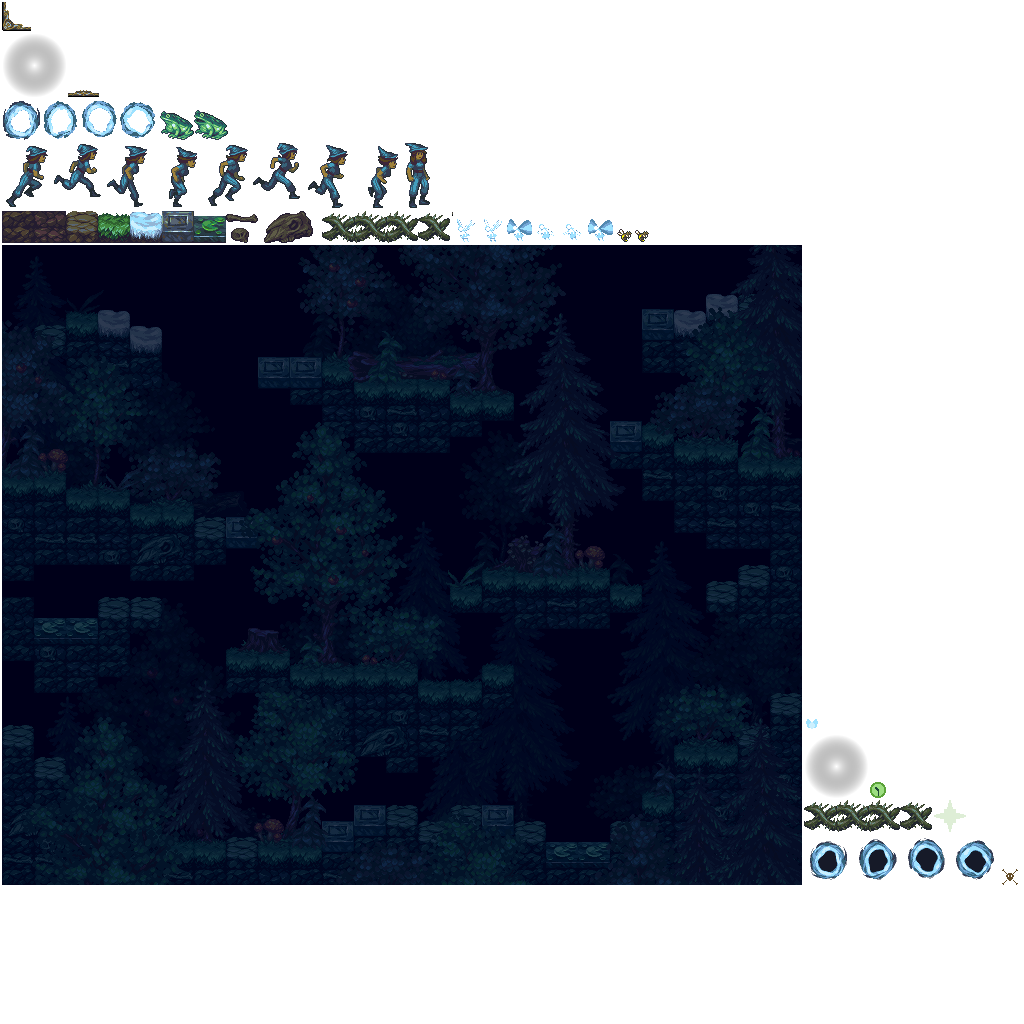
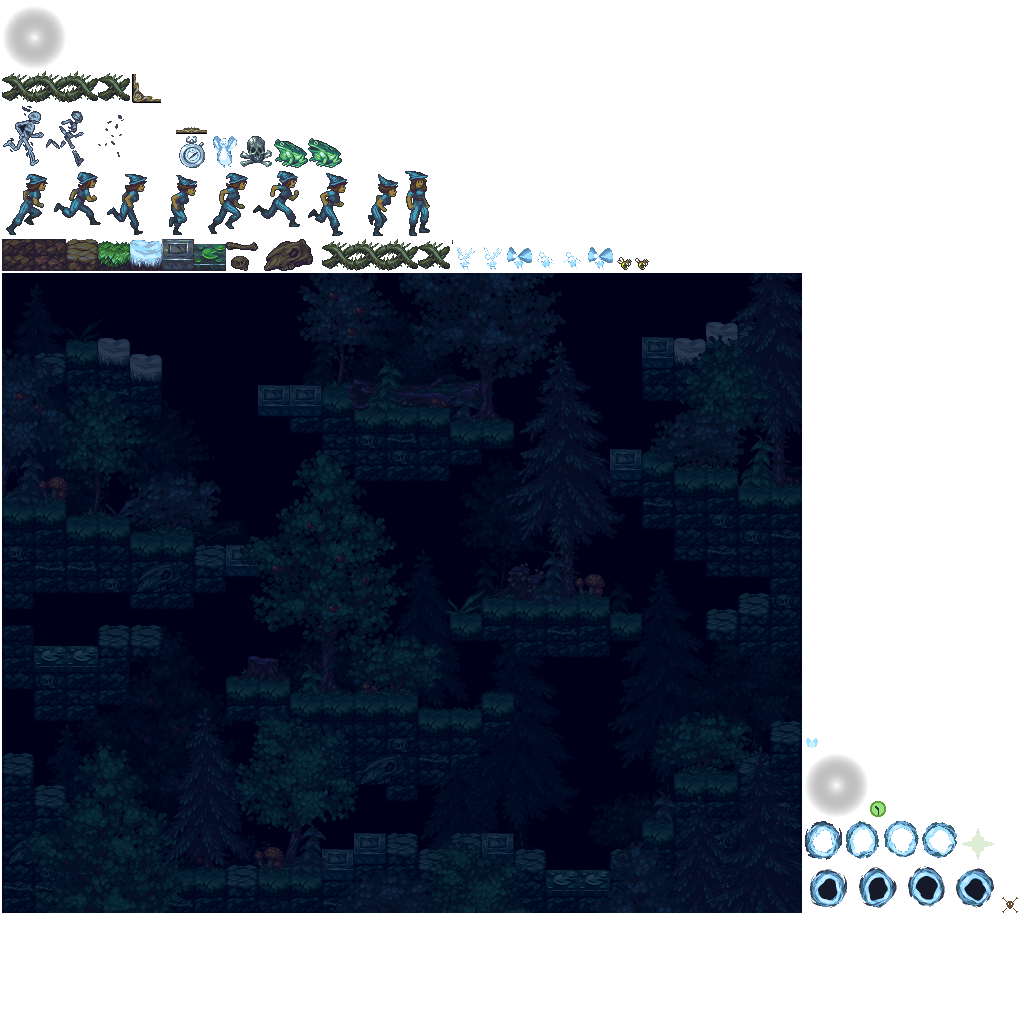
final version maybe

diff --git a/core/src/echo/entity/Player.java b/core/src/echo/entity/Player.java
@@ -59,6 +59,11 @@ public class Player extends Entity{
 		TextureRegion sheetRun = Main.atlas.findRegion("player/run");
 		run = sheetRun.split(sheetRun.getRegionWidth()/8, sheetRun.getRegionHeight())[0];
 	}
+	static TextureRegion[] death;
+	static{
+		TextureRegion sheetDeath= Main.atlas.findRegion("player/death");
+		death = sheetDeath.split(sheetDeath.getRegionWidth()/4, sheetDeath.getRegionHeight())[0];
+	}
 
 
 	static TextureRegion idle = Main.atlas.findRegion("player/idle");
@@ -96,6 +101,7 @@ public class Player extends Entity{
 	int id=0;
 	int fn;
 	CollisionHandler finalCollision;
+	private static double deathAnimationSpeed=8;
 	public Player(int x, int y) {
 		startX=x*Tile.tileWidth; startY=y*Tile.tileHeight;
 		reset();
@@ -360,12 +366,20 @@ public class Player extends Entity{
 			else toDraw = run[6];	
 		}
 		else toDraw=run[(int) frameTicker];
+		
+		if(deathStart>=0){
+			int deathFrame= (int) ((Main.ticks-deathStart)*deathAnimationSpeed);
+			deathFrame=Math.min(3, deathFrame);
+			toDraw=death[deathFrame];
+		}
+		
 		toDraw.flip(toDraw.isFlipX()==(facingSide==1), false);
 		Draw.drawCenteredRotatedScaled(batch, toDraw, (int)(getX()-extraWidth+run[0].getRegionWidth()/2), (int)(getY()-extraHeight+run[0].getRegionHeight()/2), getScaleX(), getScaleY(), getRotation());
 	}
 
-
+	double deathStart=-1;
 	public void die() {
+//		deathStart=Main.ticks;
 		if(active&&!replay) GameScreen.get().currentMap.levelFailed();
 		deathSound.play(getSoundMultiplier());
 		endLife();
@@ -440,6 +454,7 @@ public class Player extends Entity{
 
 	@Override
 	public void reset() {
+		deathStart=-1;
 		fn=0;
 		stepper=0;
 		dx=0;dy=0;

diff --git a/core/src/echo/screen/gameScreen/ScoreKeeper.java b/core/src/echo/screen/gameScreen/ScoreKeeper.java
@@ -16,12 +16,21 @@ public class ScoreKeeper extends Group{
 	public int currentHelp;
 	public boolean active;
 
-	public static final int w=110;
-	public static final int h=90;
+	public static final int w=120;
+	public static final int h=120;
 	
-	public static TextureRegion time = Main.atlas.findRegion("icon/time");
-	public static TextureRegion death = Main.atlas.findRegion("icon/deaths");
-	public static TextureRegion help = Main.atlas.findRegion("icon/help");
+	public static TextureRegion time;
+	public static TextureRegion death;
+	public static TextureRegion help;
+	static{
+		
+		TextureRegion icons = Main.atlas.findRegion("icon/icons");
+		TextureRegion[] split = icons.split(icons.getRegionWidth()/3, icons.getRegionHeight())[0];
+		time=split[0];
+		help=split[1];
+		death=split[2];
+		
+	}
 	public ScoreKeeper() {
 		setSize(w, h);
 		setPosition(Gdx.graphics.getWidth()-getWidth(), Gdx.graphics.getHeight()-getHeight());
@@ -68,8 +77,8 @@ public class ScoreKeeper extends Group{
 		ButtonBorder.drawBorder(batch, getX(), getY(), getWidth(), getHeight(), false);
 		float xOffset=15;
 		float yOffset=10;
-		float yTextOffset=yOffset+14;
-		float xTextOffset=xOffset+25;
+		float yTextOffset=yOffset+20;
+		float xTextOffset=xOffset+38;
 		float yGap=(getHeight()-yOffset*2)/3;
 		
 		Draw.draw(batch, time, getX()+xOffset, getY()+yOffset+yGap*2);

diff --git a/core/src/echo/screen/victoryScreen/ScorePart.java b/core/src/echo/screen/victoryScreen/ScorePart.java
@@ -19,7 +19,7 @@ public class ScorePart extends Group{
 	String text;
 	public enum PartType{Time, Death, Help};
 	PartType type;
-	float picX=30, picY, textX=80, textY=80;
+	float picX=40, picY, textX=70, textY=82;
 	
 	public ScorePart(float value, TextureRegion region, PartType type) {
 		this.type=type;
@@ -40,8 +40,8 @@ public class ScorePart extends Group{
 		default:
 			break;
 		}
-		Font.largeLayout.setText(Font.largeFont, text);
-		setSize(Font.largeLayout.width+105, 80);
+		Font.largeLayout.setText(Font.font, text);
+		setSize(Font.largeLayout.width+105, 50);
 		picY=getHeight()/2-region.getRegionHeight()/2*2;
 	}
 	
@@ -64,8 +64,8 @@ public class ScorePart extends Group{
 	@Override
 	public void draw(Batch batch, float parentAlpha) {
 		ButtonBorder.drawBorder(batch, getX(), getY(), getWidth(), getHeight(), false);
-		Draw.drawScaled(batch, region, getX()+picX, getY()+picY, 2, 2);
-		Font.largeFont.draw(batch, text+"", getX()+textX, getY()+picY+region.getRegionHeight()/2+Font.largeFont.getCapHeight()*1);
+		Draw.drawCentered(batch, region, getX()+picX, getY()+getHeight()/2);
+		Font.font.draw(batch, text+"", getX()+textX, getY()+picY+region.getRegionHeight()/2+Font.largeFont.getCapHeight()*1);
 		super.draw(batch, parentAlpha);
 	}
 }

diff --git a/core/src/echo/screen/victoryScreen/ScoreTotal.java b/core/src/echo/screen/victoryScreen/ScoreTotal.java
@@ -24,12 +24,12 @@ public class ScoreTotal extends Group{
 	Sound bell= Sounds.am.get("sfx/bell.wav", Sound.class);
 
 	public ScoreTotal(float total) {
-		setSize(220, 80);
+		setSize(120, 50);
 		setPosition(Gdx.graphics.getWidth()/3, Gdx.graphics.getHeight()/3, Align.center);
 		this.total=total;
 		ticker.play(Slider.SFX.getValue());
 	}
-	static int textX=20, textY=50;
+	static int textX=17, textY=31;
 	Interpolation terp = new Interpolation.SwingOut(20);
 	float time=5f;
 	float ticks;
@@ -61,7 +61,7 @@ public class ScoreTotal extends Group{
 	@Override
 	public void draw(Batch batch, float parentAlpha) {
 		ButtonBorder.drawBorder(batch, getX(), getY(), getWidth(), getHeight(), false);
-		Font.largeFont.draw(batch, "Total: "+text, getX()+textX, getY()+textY);
+		Font.font.draw(batch, "Total: "+text, getX()+textX, getY()+textY);
 		super.draw(batch, parentAlpha);
 	}
 }

diff --git a/core/src/echo/Main.java b/core/src/echo/Main.java
@@ -31,7 +31,7 @@ import echo.utilities.TannScreen.TransitionType;
 
 
 public class Main extends ApplicationAdapter {
-	public static final float version = 0.95f;
+	public static final float version = 1;
 	public static float frameSpeed = 1/60f;
 	public static int tilesAcross=25;
 	public static int tilesDown=40;
@@ -43,7 +43,7 @@ public class Main extends ApplicationAdapter {
 	private TannScreen currentScreen;
 	private SpriteBatch extraBatch;
 	public static boolean debug=false;
-	public static boolean html=true;
+	public static boolean html=false;
 	Stage mainStage;
 	public static int totalLevels=25;
 	public static Music ambience;

diff --git a/desktop/src/echo/desktop/DesktopLauncher.java b/desktop/src/echo/desktop/DesktopLauncher.java
@@ -13,13 +13,13 @@ public class DesktopLauncher {
 		LwjglApplicationConfiguration config = new LwjglApplicationConfiguration();
 		config.resizable=false;
 		config.vSyncEnabled=true;
-		config.foregroundFPS=40;
+		config.foregroundFPS=60;
 		config.width=800;
 		config.height=640;
 		
 		Settings settings = new Settings();
 		settings.combineSubdirectories = true;
-		TexturePacker.process(settings, "../images", "../core/assets", "atlas_image");
+//		TexturePacker.process(settings, "../images", "../core/assets", "atlas_image");
 		config.title="Echo";
 		config.addIcon("icon.png", FileType.Internal);
 

diff --git a/core/src/echo/screen/gameScreen/GameScreen.java b/core/src/echo/screen/gameScreen/GameScreen.java
@@ -194,19 +194,19 @@ public class GameScreen extends TannScreen{
 	@Override
 	public void keyPressed(int keyCode) {
 		switch(keyCode){
-		case Keys.NUMPAD_0:
-			nextLevel(true);
-			break;
-		case Keys.NUMPAD_1:
-			Main.self.setScreen(new VictoryScreen(), TransitionType.SlideLeft);
-			break;
+//		case Keys.NUMPAD_0:
+//			nextLevel(true);
+//			break;
+//		case Keys.NUMPAD_1:
+//			Main.self.setScreen(new VictoryScreen(), TransitionType.SlideLeft);
+//			break;
 		}
 	}
 
 	@Override
 	public void activate() {
 		fairyHelp.reset();
-		Main.self.startMusic();
+		Main.startMusic();
 	}
 
 	@Override

diff --git a/core/src/echo/screen/victoryScreen/Rank.java b/core/src/echo/screen/victoryScreen/Rank.java
@@ -53,8 +53,8 @@ public class Rank extends Actor{
 		
 		Font.hugeFont.setColor(Colours.light);
 		Font.hugeFont.draw(batch, r.toString(), getX()+(getWidth()-gl.width)/2, getY()+getHeight()/2+gl.height/2);
-		Font.largeFont.setColor(Colours.light);
-		Font.largeFont.draw(batch, r.desc, getX(), getY()-10, getWidth(), Align.center, false);
+		Font.font.setColor(Colours.light);
+		Font.font.draw(batch, r.desc, getX(), getY()-10, getWidth(), Align.center, false);
 		
 		batch.setColor(getColor());
 		Draw.fillRectangle(batch, getX(), getY(), getWidth(), getHeight()+10);

diff --git a/core/src/echo/screen/victoryScreen/VictoryScreen.java b/core/src/echo/screen/victoryScreen/VictoryScreen.java
@@ -20,7 +20,7 @@ public class VictoryScreen extends TannScreen{
 		self=this;
 		ScoreKeeper s = GameScreen.scoreKeeper;
 		parts[0]=new ScorePart(s.currentTime,  ScoreKeeper.time, PartType.Time);
-		parts[1]=new ScorePart(s.currentDeaths+200,  ScoreKeeper.death, PartType.Death);
+		parts[1]=new ScorePart(s.currentDeaths,  ScoreKeeper.death, PartType.Death);
 		parts[2]=new ScorePart(s.currentHelp,  ScoreKeeper.help, PartType.Help);
 		int partY=400;
 		int totalWidth=0;

diff --git a/core/src/echo/map/Map.java b/core/src/echo/map/Map.java
@@ -189,10 +189,6 @@ public class Map extends Group{
 		if(Menu.active)return;
 		if(transitioning||!finishedZooming) return;
 		switch(keyCode){
-		case Keys.HOME:
-			lightsOn(); // cheeeats //
-			break;
-
 		case Keys.UP:
 		case Keys.LEFT:
 		case Keys.RIGHT:
